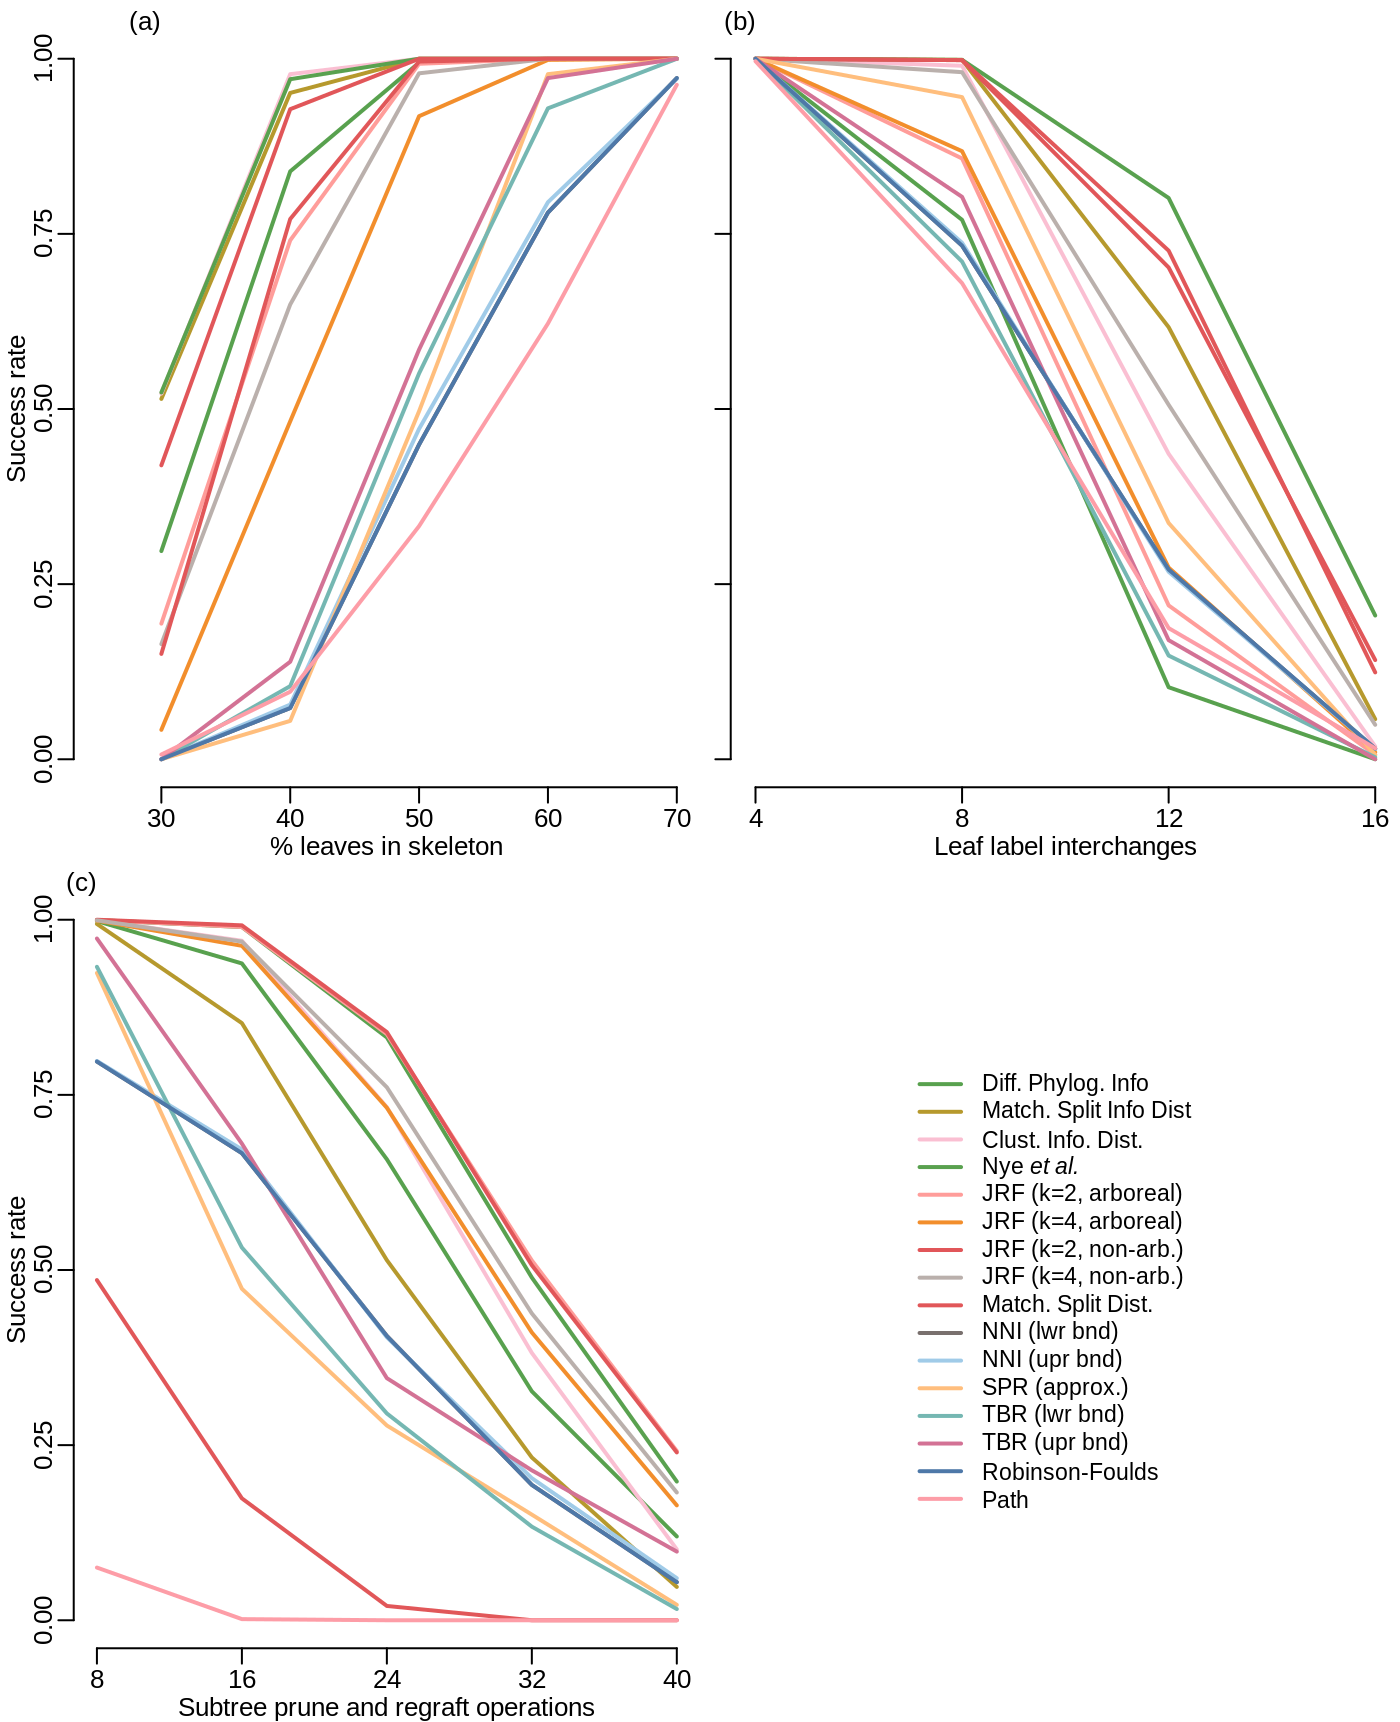
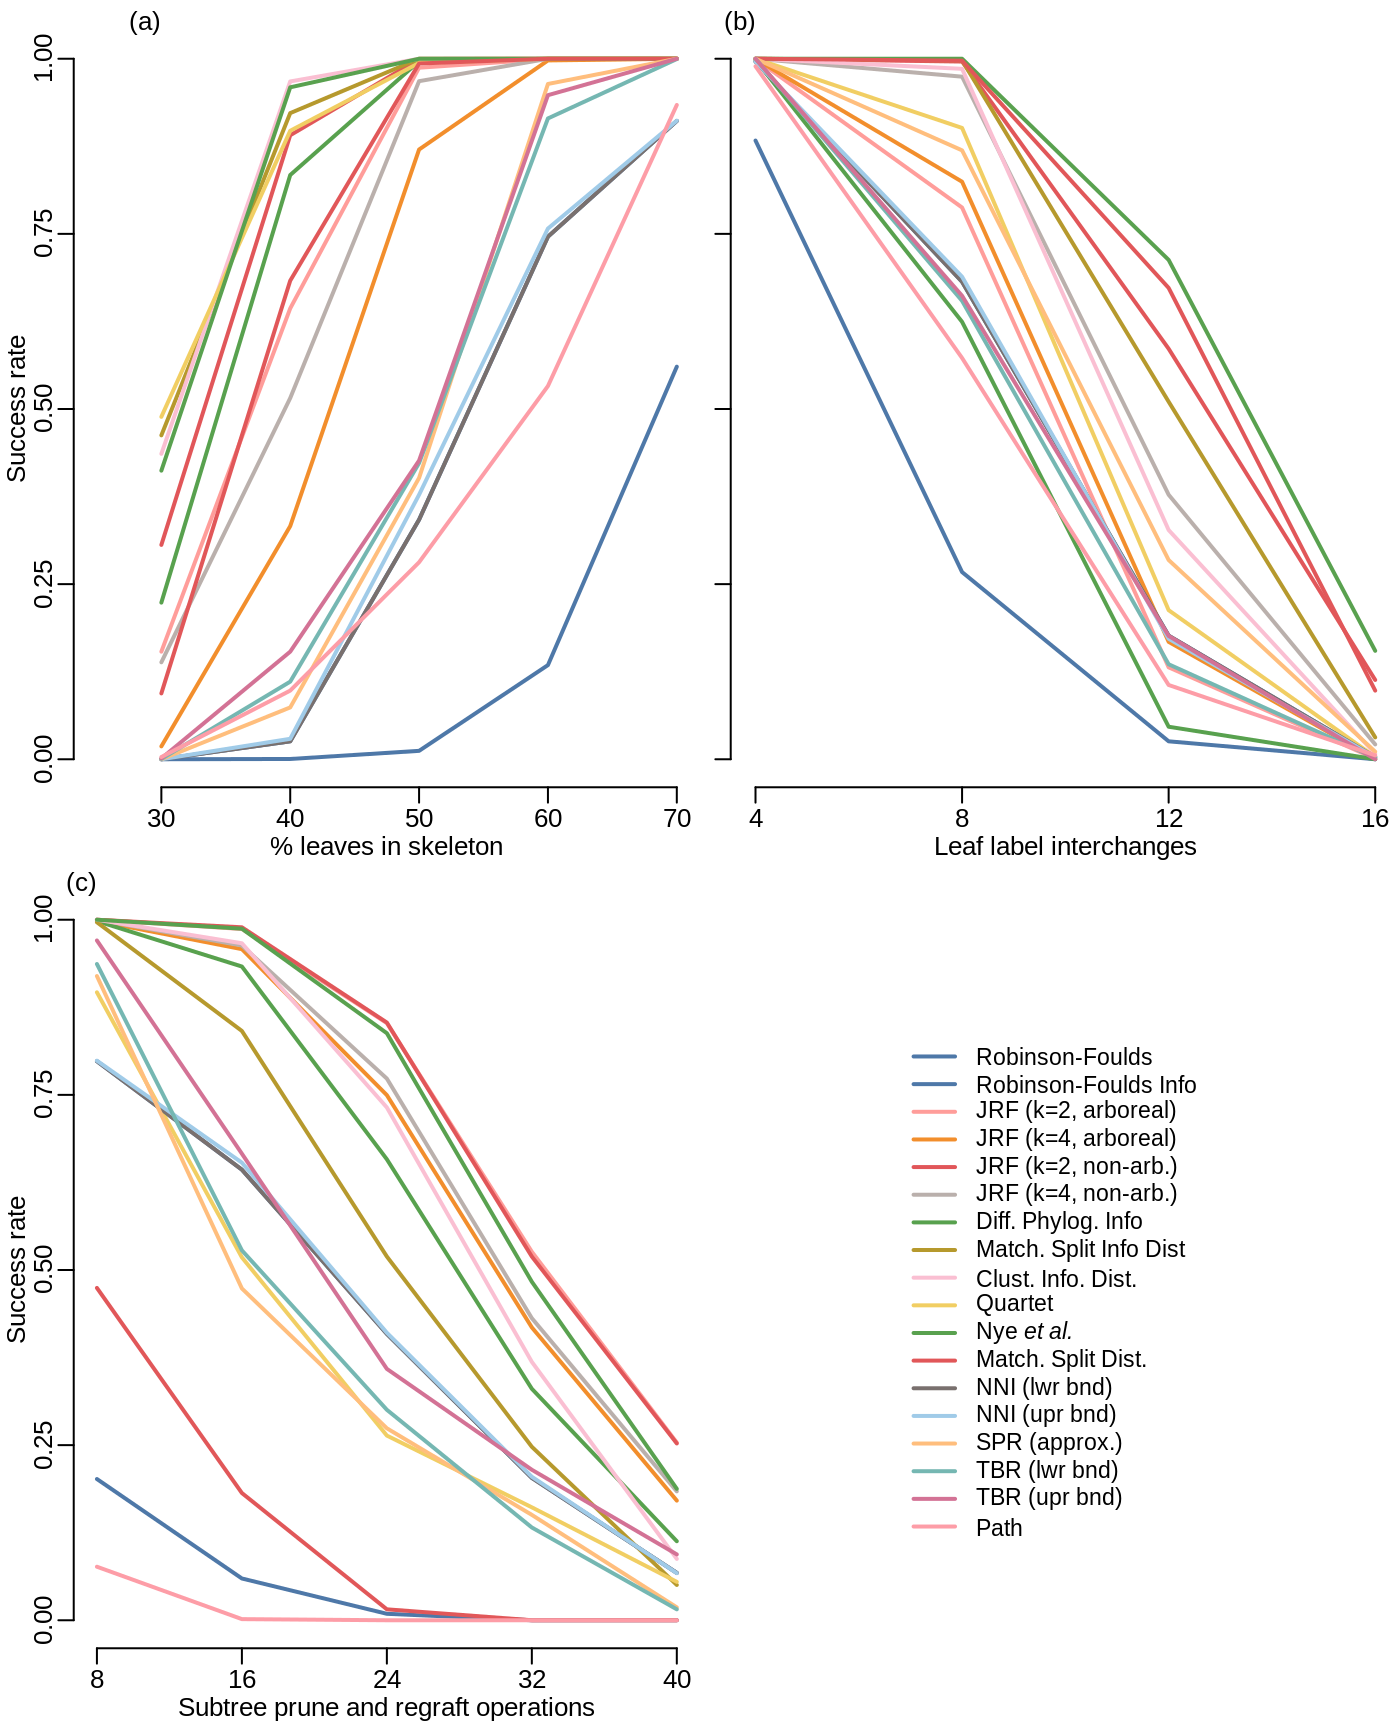
Built site for TreeDistData: 0.0.0.9008@69b789a

diff --git a/articles/6-lin-cluster-recovery.html b/articles/6-lin-cluster-recovery.html
@@ -119,7 +119,7 @@
                         <h4 class="author">Martin R. Smith <a href="mailto:martin.smith@durham.ac.uk">martin.smith@durham.ac.uk</a>
 </h4>
             
-            <h4 class="date">2020-02-20</h4>
+            <h4 class="date">2020-02-26</h4>
       
       <small class="dont-index">Source: <a href="https://github.com/ms609/TreeDistData/blob/master/vignettes/6-lin-cluster-recovery.Rmd"><code>vignettes/6-lin-cluster-recovery.Rmd</code></a></small>
       <div class="hidden name"><code>6-lin-cluster-recovery.Rmd</code></div>
@@ -143,115 +143,129 @@
 <tbody>
 <tr class="odd">
 <td>paste(plain(“Nye”), italic(“et al.”))</td>
-<td align="right">4.00</td>
-<td align="right">3.425</td>
-<td align="right">3.14</td>
-<td align="right">3.52</td>
+<td align="right">4.66</td>
+<td align="right">4.150</td>
+<td align="right">3.76</td>
+<td align="right">4.19</td>
 </tr>
 <tr class="even">
 <td>JRF (k=2, non-arb.)</td>
-<td align="right">4.64</td>
-<td align="right">4.150</td>
-<td align="right">2.50</td>
-<td align="right">3.76</td>
+<td align="right">5.40</td>
+<td align="right">5.000</td>
+<td align="right">2.60</td>
+<td align="right">4.33</td>
 </tr>
 <tr class="odd">
 <td>Clust. Info. Dist.</td>
-<td align="right">3.98</td>
-<td align="right">6.750</td>
-<td align="right">5.70</td>
-<td align="right">5.48</td>
+<td align="right">4.46</td>
+<td align="right">7.100</td>
+<td align="right">5.96</td>
+<td align="right">5.84</td>
 </tr>
 <tr class="even">
-<td>Match. Split Info Dist</td>
-<td align="right">4.22</td>
-<td align="right">4.800</td>
-<td align="right">9.06</td>
-<td align="right">6.03</td>
+<td>JRF (k=4, non-arb.)</td>
+<td align="right">8.08</td>
+<td align="right">6.750</td>
+<td align="right">4.70</td>
+<td align="right">6.51</td>
 </tr>
 <tr class="odd">
-<td>JRF (k=4, non-arb.)</td>
-<td align="right">7.12</td>
-<td align="right">6.525</td>
-<td align="right">4.68</td>
-<td align="right">6.11</td>
+<td>Match. Split Info Dist</td>
+<td align="right">4.62</td>
+<td align="right">5.450</td>
+<td align="right">9.46</td>
+<td align="right">6.51</td>
 </tr>
 <tr class="even">
 <td>JRF (k=2, arboreal)</td>
-<td align="right">6.16</td>
-<td align="right">10.575</td>
-<td align="right">2.52</td>
-<td align="right">6.42</td>
+<td align="right">7.36</td>
+<td align="right">11.475</td>
+<td align="right">2.76</td>
+<td align="right">7.20</td>
 </tr>
 <tr class="odd">
-<td>JRF (k=4, arboreal)</td>
-<td align="right">8.50</td>
-<td align="right">9.875</td>
-<td align="right">5.58</td>
-<td align="right">7.99</td>
-</tr>
-<tr class="even">
 <td>Match. Split Dist.</td>
-<td align="right">6.46</td>
-<td align="right">3.950</td>
-<td align="right">13.70</td>
-<td align="right">8.04</td>
-</tr>
-<tr class="odd">
-<td>Diff. Phylog. Info</td>
-<td align="right">5.64</td>
-<td align="right">12.675</td>
-<td align="right">6.74</td>
-<td align="right">8.35</td>
+<td align="right">7.26</td>
+<td align="right">3.825</td>
+<td align="right">14.84</td>
+<td align="right">8.64</td>
 </tr>
 <tr class="even">
-<td>SPR (approx.)</td>
-<td align="right">11.40</td>
-<td align="right">8.650</td>
-<td align="right">12.44</td>
-<td align="right">10.83</td>
+<td>JRF (k=4, arboreal)</td>
+<td align="right">9.52</td>
+<td align="right">10.825</td>
+<td align="right">5.96</td>
+<td align="right">8.77</td>
+</tr>
+<tr class="odd">
+<td>Quartet</td>
+<td align="right">5.14</td>
+<td align="right">9.550</td>
+<td align="right">12.38</td>
+<td align="right">9.02</td>
+</tr>
+<tr class="even">
+<td>Diff. Phylog. Info</td>
+<td align="right">6.50</td>
+<td align="right">13.750</td>
+<td align="right">7.10</td>
+<td align="right">9.12</td>
 </tr>
 <tr class="odd">
 <td>TBR (upr bnd)</td>
-<td align="right">10.86</td>
-<td align="right">11.550</td>
-<td align="right">10.24</td>
-<td align="right">10.88</td>
+<td align="right">11.58</td>
+<td align="right">11.400</td>
+<td align="right">10.72</td>
+<td align="right">11.23</td>
 </tr>
 <tr class="even">
-<td>NNI (upr bnd)</td>
-<td align="right">12.36</td>
-<td align="right">9.975</td>
-<td align="right">10.62</td>
-<td align="right">10.98</td>
+<td>SPR (approx.)</td>
+<td align="right">12.18</td>
+<td align="right">9.225</td>
+<td align="right">13.00</td>
+<td align="right">11.47</td>
 </tr>
 <tr class="odd">
-<td>NNI (lwr bnd)</td>
-<td align="right">13.00</td>
-<td align="right">10.125</td>
-<td align="right">11.12</td>
-<td align="right">11.41</td>
+<td>NNI (upr bnd)</td>
+<td align="right">13.38</td>
+<td align="right">11.150</td>
+<td align="right">10.82</td>
+<td align="right">11.78</td>
 </tr>
 <tr class="even">
 <td>Robinson-Foulds</td>
-<td align="right">13.00</td>
-<td align="right">10.075</td>
-<td align="right">11.18</td>
-<td align="right">11.42</td>
+<td align="right">13.84</td>
+<td align="right">10.975</td>
+<td align="right">11.24</td>
+<td align="right">12.02</td>
 </tr>
 <tr class="odd">
-<td>TBR (lwr bnd)</td>
-<td align="right">11.16</td>
-<td align="right">12.100</td>
-<td align="right">12.14</td>
-<td align="right">11.80</td>
+<td>NNI (lwr bnd)</td>
+<td align="right">13.84</td>
+<td align="right">10.975</td>
+<td align="right">11.24</td>
+<td align="right">12.02</td>
 </tr>
 <tr class="even">
+<td>TBR (lwr bnd)</td>
+<td align="right">12.70</td>
+<td align="right">11.475</td>
+<td align="right">12.74</td>
+<td align="right">12.30</td>
+</tr>
+<tr class="odd">
 <td>Path</td>
-<td align="right">13.50</td>
-<td align="right">10.800</td>
-<td align="right">14.64</td>
-<td align="right">12.98</td>
+<td align="right">14.14</td>
+<td align="right">11.900</td>
+<td align="right">16.14</td>
+<td align="right">14.06</td>
+</tr>
+<tr class="even">
+<td>Robinson-Foulds Info</td>
+<td align="right">16.34</td>
+<td align="right">16.025</td>
+<td align="right">15.58</td>
+<td align="right">15.98</td>
 </tr>
 </tbody>
 </table>

diff --git a/articles/10-timing.html b/articles/10-timing.html
@@ -119,7 +119,7 @@
                         <h4 class="author">Martin R. Smith <a href="mailto:martin.smith@durham.ac.uk">martin.smith@durham.ac.uk</a>
 </h4>
             
-            <h4 class="date">2020-02-20</h4>
+            <h4 class="date">2020-02-26</h4>
       
       <small class="dont-index">Source: <a href="https://github.com/ms609/TreeDistData/blob/master/vignettes/10-timing.Rmd"><code>vignettes/10-timing.Rmd</code></a></small>
       <div class="hidden name"><code>10-timing.Rmd</code></div>
@@ -143,7 +143,7 @@
 <tr class="odd">
 <td>Robinson-Foulds</td>
 <td align="right">10</td>
-<td align="right">12</td>
+<td align="right">13</td>
 </tr>
 <tr class="even">
 <td>Path</td>
@@ -153,12 +153,12 @@
 <tr class="odd">
 <td>Match. Split Dist.</td>
 <td align="right">17</td>
-<td align="right">46</td>
+<td align="right">47</td>
 </tr>
 <tr class="even">
 <td>Diff. Phylog. Info</td>
 <td align="right">22</td>
-<td align="right">85</td>
+<td align="right">88</td>
 </tr>
 <tr class="odd">
 <td>Match. Split Info Dist</td>
@@ -187,27 +187,27 @@
 </tr>
 <tr class="even">
 <td>JRF (k=4, arboreal)</td>
-<td align="right">47</td>
+<td align="right">46</td>
 <td align="right">560</td>
 </tr>
 <tr class="odd">
 <td>Robinson-Foulds Info</td>
-<td align="right">49</td>
+<td align="right">50</td>
 <td align="right">130</td>
 </tr>
 <tr class="even">
 <td>JRF (k=4, non-arb.)</td>
-<td align="right">59</td>
+<td align="right">57</td>
 <td align="right">900</td>
 </tr>
 <tr class="odd">
 <td>NNI (approx.)</td>
-<td align="right">60</td>
-<td align="right">79</td>
+<td align="right">61</td>
+<td align="right">80</td>
 </tr>
 <tr class="even">
 <td>SPR (approx.)</td>
-<td align="right">93</td>
+<td align="right">94</td>
 <td align="right">790</td>
 </tr>
 <tr class="odd">
@@ -217,13 +217,13 @@
 </tr>
 <tr class="even">
 <td>Quartet</td>
-<td align="right">240</td>
-<td align="right">440</td>
+<td align="right">250</td>
+<td align="right">460</td>
 </tr>
 <tr class="odd">
 <td>MAST size</td>
-<td align="right">6500</td>
-<td align="right">26000</td>
+<td align="right">6700</td>
+<td align="right">27000</td>
 </tr>
 </tbody>
 </table>

diff --git a/articles/4-saturation-and-sensitivity.html b/articles/4-saturation-and-sensitivity.html
@@ -118,7 +118,7 @@
       <h1>§4. Saturation and sensitivity</h1>
                         <h4 class="author">Martin R. Smith</h4>
             
-            <h4 class="date">2020-02-20</h4>
+            <h4 class="date">2020-02-26</h4>
       
       <small class="dont-index">Source: <a href="https://github.com/ms609/TreeDistData/blob/master/vignettes/4-saturation-and-sensitivity.Rmd"><code>vignettes/4-saturation-and-sensitivity.Rmd</code></a></small>
       <div class="hidden name"><code>4-saturation-and-sensitivity.Rmd</code></div>

diff --git a/articles/9-expected-similarity.html b/articles/9-expected-similarity.html
@@ -118,7 +118,7 @@
       <h1>§9. Expected values for tree distance metrics</h1>
                         <h4 class="author">Martin R. Smith</h4>
             
-            <h4 class="date">2020-02-20</h4>
+            <h4 class="date">2020-02-26</h4>
       
       <small class="dont-index">Source: <a href="https://github.com/ms609/TreeDistData/blob/master/vignettes/9-expected-similarity.Rmd"><code>vignettes/9-expected-similarity.Rmd</code></a></small>
       <div class="hidden name"><code>9-expected-similarity.Rmd</code></div>

diff --git a/articles/11-correlation.html b/articles/11-correlation.html
@@ -119,7 +119,7 @@
                         <h4 class="author">Martin R. Smith <a href="mailto:martin.smith@durham.ac.uk">martin.smith@durham.ac.uk</a>
 </h4>
             
-            <h4 class="date">2020-02-20</h4>
+            <h4 class="date">2020-02-26</h4>
       
       <small class="dont-index">Source: <a href="https://github.com/ms609/TreeDistData/blob/master/vignettes/11-correlation.Rmd"><code>vignettes/11-correlation.Rmd</code></a></small>
       <div class="hidden name"><code>11-correlation.Rmd</code></div>

diff --git a/articles/8-spr-walking.html b/articles/8-spr-walking.html
@@ -119,7 +119,7 @@
                         <h4 class="author">Martin R. Smith <a href="mailto:martin.smith@durham.ac.uk">martin.smith@durham.ac.uk</a>
 </h4>
             
-            <h4 class="date">2020-02-20</h4>
+            <h4 class="date">2020-02-26</h4>
       
       <small class="dont-index">Source: <a href="https://github.com/ms609/TreeDistData/blob/master/vignettes/8-spr-walking.Rmd"><code>vignettes/8-spr-walking.Rmd</code></a></small>
       <div class="hidden name"><code>8-spr-walking.Rmd</code></div>

diff --git a/articles/5-tree-shape.html b/articles/5-tree-shape.html
@@ -119,7 +119,7 @@
                         <h4 class="author">Martin R. Smith <a href="mailto:martin.smith@durham.ac.uk">martin.smith@durham.ac.uk</a>
 </h4>
             
-            <h4 class="date">2020-02-20</h4>
+            <h4 class="date">2020-02-26</h4>
       
       <small class="dont-index">Source: <a href="https://github.com/ms609/TreeDistData/blob/master/vignettes/5-tree-shape.Rmd"><code>vignettes/5-tree-shape.Rmd</code></a></small>
       <div class="hidden name"><code>5-tree-shape.Rmd</code></div>

diff --git a/articles/7-bullseye.html b/articles/7-bullseye.html
@@ -119,7 +119,7 @@
                         <h4 class="author">Martin R. Smith <a href="mailto:martin.smith@durham.ac.uk">martin.smith@durham.ac.uk</a>
 </h4>
             
-            <h4 class="date">2020-02-20</h4>
+            <h4 class="date">2020-02-26</h4>
       
       <small class="dont-index">Source: <a href="https://github.com/ms609/TreeDistData/blob/master/vignettes/7-bullseye.Rmd"><code>vignettes/7-bullseye.Rmd</code></a></small>
       <div class="hidden name"><code>7-bullseye.Rmd</code></div>

diff --git a/articles/1-length-of-move.html b/articles/1-length-of-move.html
@@ -118,7 +118,7 @@
       <h1>§1. Length of move</h1>
                         <h4 class="author">Martin R. Smith</h4>
             
-            <h4 class="date">2020-02-20</h4>
+            <h4 class="date">2020-02-26</h4>
       
       <small class="dont-index">Source: <a href="https://github.com/ms609/TreeDistData/blob/master/vignettes/1-length-of-move.Rmd"><code>vignettes/1-length-of-move.Rmd</code></a></small>
       <div class="hidden name"><code>1-length-of-move.Rmd</code></div>

diff --git a/articles/2-leaves-moved.html b/articles/2-leaves-moved.html
@@ -118,7 +118,7 @@
       <h1>§2. Number of tips moved</h1>
                         <h4 class="author">Martin R. Smith</h4>
             
-            <h4 class="date">2020-02-20</h4>
+            <h4 class="date">2020-02-26</h4>
       
       <small class="dont-index">Source: <a href="https://github.com/ms609/TreeDistData/blob/master/vignettes/2-leaves-moved.Rmd"><code>vignettes/2-leaves-moved.Rmd</code></a></small>
       <div class="hidden name"><code>2-leaves-moved.Rmd</code></div>

diff --git a/articles/3-moves-made.html b/articles/3-moves-made.html
@@ -118,7 +118,7 @@
       <h1>§3. Number of moves made</h1>
                         <h4 class="author">Martin R. Smith</h4>
             
-            <h4 class="date">2020-02-20</h4>
+            <h4 class="date">2020-02-26</h4>
       
       <small class="dont-index">Source: <a href="https://github.com/ms609/TreeDistData/blob/master/vignettes/3-moves-made.Rmd"><code>vignettes/3-moves-made.Rmd</code></a></small>
       <div class="hidden name"><code>3-moves-made.Rmd</code></div>

diff --git a/articles/X-heterogeneity.html b/articles/X-heterogeneity.html
@@ -118,7 +118,7 @@
       <h1>Heterogeneity</h1>
                         <h4 class="author">Martin R. Smith</h4>
             
-            <h4 class="date">2020-02-20</h4>
+            <h4 class="date">2020-02-26</h4>
       
       <small class="dont-index">Source: <a href="https://github.com/ms609/TreeDistData/blob/master/vignettes/X-heterogeneity.Rmd"><code>vignettes/X-heterogeneity.Rmd</code></a></small>
       <div class="hidden name"><code>X-heterogeneity.Rmd</code></div>
